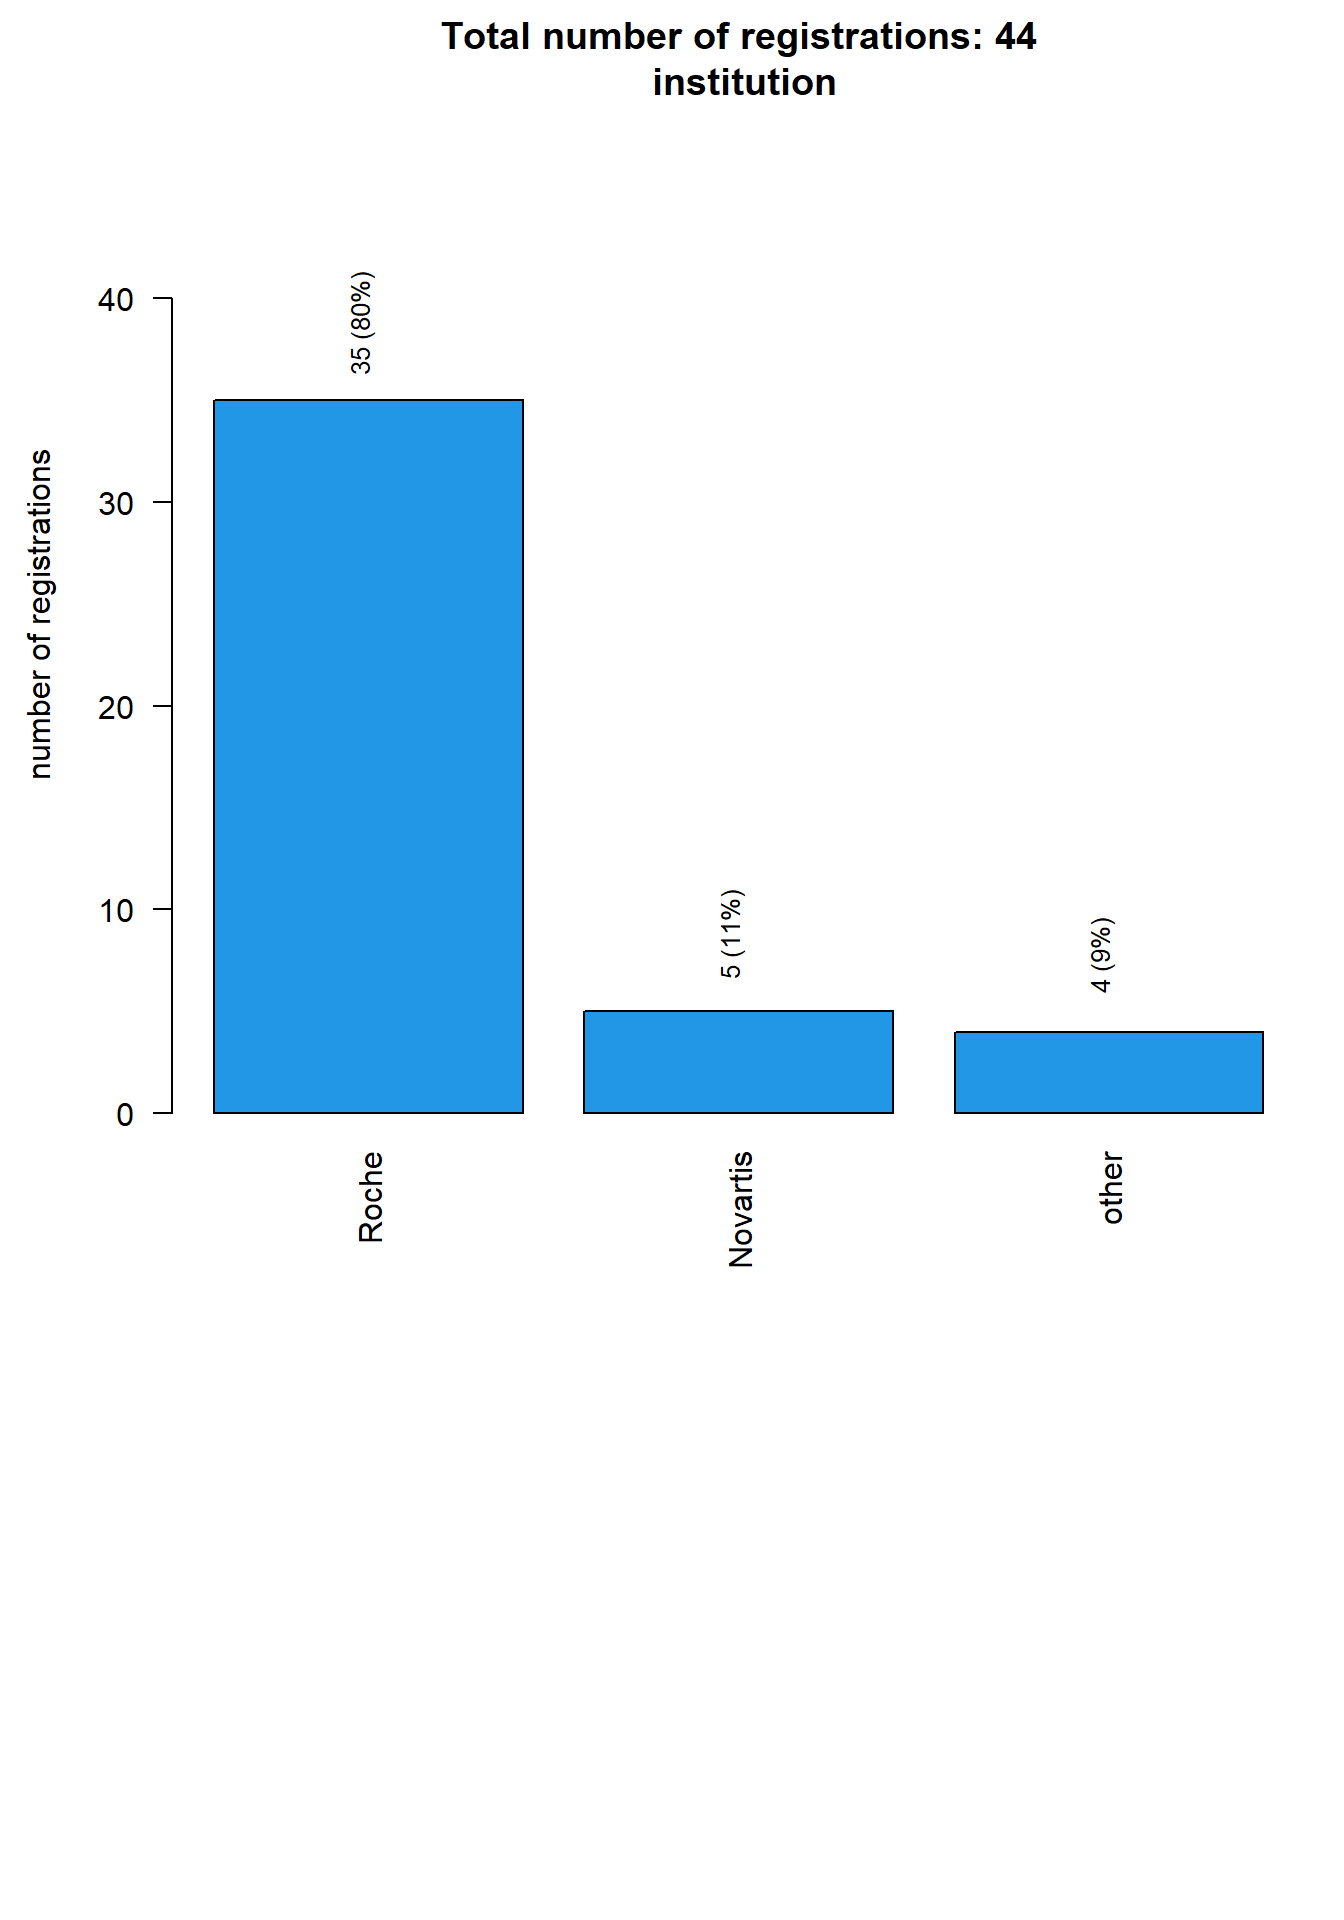
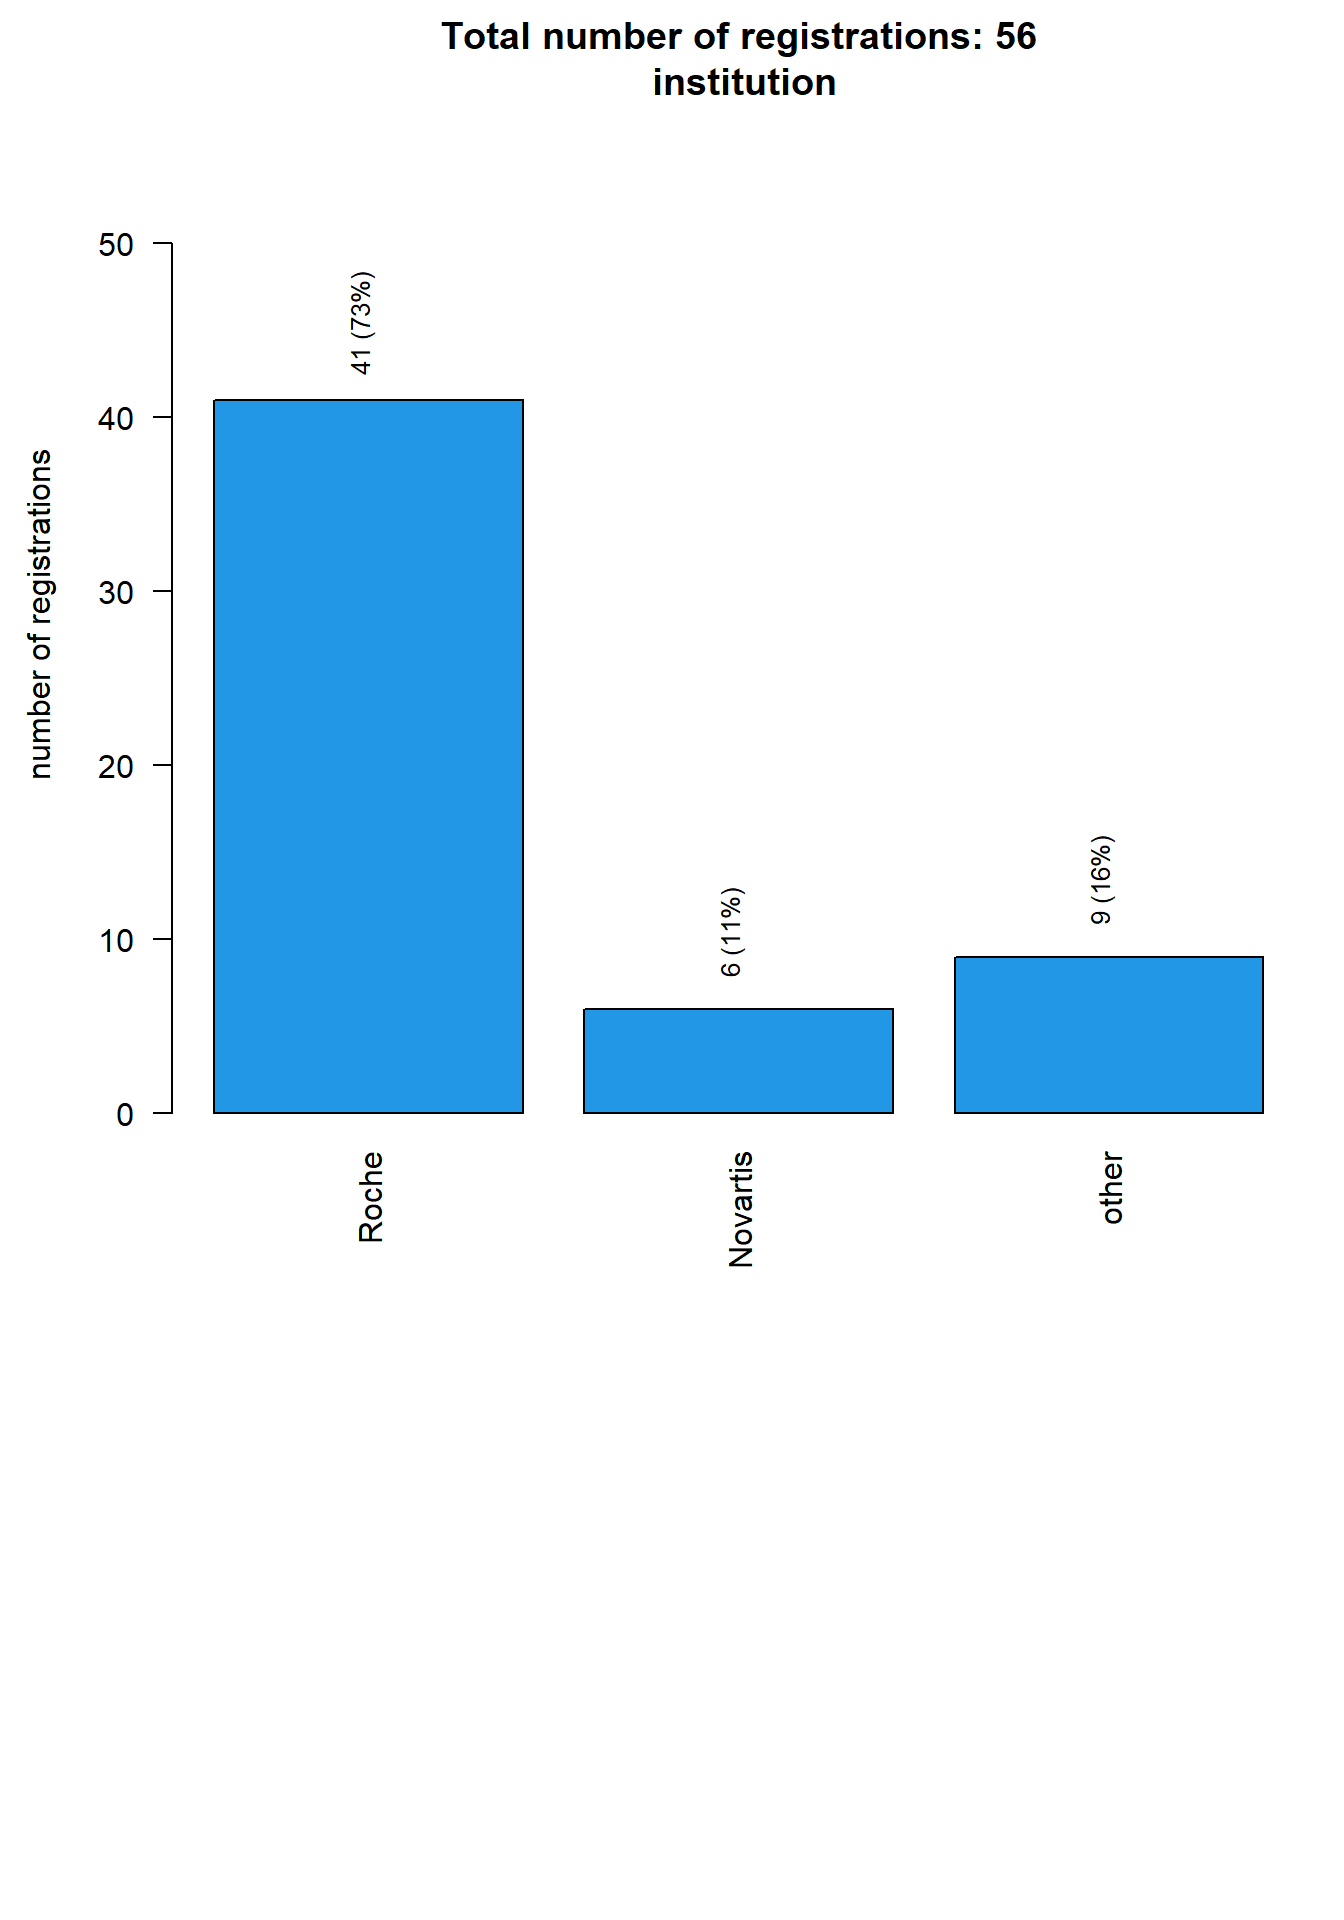
udpate

diff --git a/docs/data/2024/analysis2024.html b/docs/data/2024/analysis2024.html
@@ -201,7 +201,7 @@ ul.task-list li input[type="checkbox"] {
 
 <section id="data-status" class="level1">
 <h1>Data status</h1>
-<p>Data as of 2024-05-08 at 09:28:58.</p>
+<p>Data as of 2024-05-23 at 07:31:53.</p>
 </section>
 <section id="registrations-by-type-of-institution" class="level1">
 <h1>Registrations by type of institution</h1>
@@ -303,9 +303,9 @@ ul.task-list li input[type="checkbox"] {
 <thead>
 <tr class="header">
 <th style="text-align: left;"></th>
-<th style="text-align: center;">Novartis (N=5)</th>
-<th style="text-align: center;">Roche (N=35)</th>
-<th style="text-align: center;">Total (N=40)</th>
+<th style="text-align: center;">Novartis (N=6)</th>
+<th style="text-align: center;">Roche (N=41)</th>
+<th style="text-align: center;">Total (N=47)</th>
 </tr>
 </thead>
 <tbody>
@@ -317,15 +317,15 @@ ul.task-list li input[type="checkbox"] {
 </tr>
 <tr class="even">
 <td style="text-align: left;">&nbsp;&nbsp;&nbsp;Face-to-face (280 Euro)</td>
-<td style="text-align: center;">5 (100.0%)</td>
-<td style="text-align: center;">27 (77.1%)</td>
-<td style="text-align: center;">32 (80.0%)</td>
+<td style="text-align: center;">6 (100.0%)</td>
+<td style="text-align: center;">31 (75.6%)</td>
+<td style="text-align: center;">37 (78.7%)</td>
 </tr>
 <tr class="odd">
 <td style="text-align: left;">&nbsp;&nbsp;&nbsp;Virtual (70 Euro)</td>
 <td style="text-align: center;">0 (0.0%)</td>
-<td style="text-align: center;">8 (22.9%)</td>
-<td style="text-align: center;">8 (20.0%)</td>
+<td style="text-align: center;">10 (24.4%)</td>
+<td style="text-align: center;">10 (21.3%)</td>
 </tr>
 </tbody>
 </table>

diff --git a/docs/speaker.html b/docs/speaker.html
@@ -6,7 +6,7 @@
 
 <meta name="viewport" content="width=device-width, initial-scale=1.0, user-scalable=yes">
 
-<meta name="dcterms.date" content="2024-05-06">
+<meta name="dcterms.date" content="2024-05-23">
 
 <title>EFSPI regulatory statistics workshop - Frequently asked questions for speakers and panelists</title>
 <style>
@@ -194,7 +194,7 @@ ul.task-list li input[type="checkbox"] {
     <div>
     <div class="quarto-title-meta-heading">Published</div>
     <div class="quarto-title-meta-contents">
-      <p class="date">May 6, 2024</p>
+      <p class="date">May 23, 2024</p>
     </div>
   </div>
   
@@ -336,7 +336,9 @@ ul.task-list li input[type="checkbox"] {
 <li>Remind speakers to rather focus on principles and regulatory actions than technical (statistical) details.</li>
 <li>Remind speakers to send slides to <a href="mailto:hlyn@novonordisk.com">Helle Lynggaard</a> with cc: the session chairs.</li>
 <li>Clarify with speakers <font color="red">prior to the workshop</font> whether they are ok to post their slides and / or the recording of their session on the workshop webpage.</li>
+<li>Remind speakers to use a headphone (not speak to their computers).</li>
 </ul>
+<p>When chairing the session: - Call out those on the phone so that they can contribute to the discussion as well.</p>
 </section>
 <section id="technical-setup-and-how-we-plan-to-run-the-sessions" class="level1">
 <h1>Technical setup and how we plan to run the sessions</h1>

diff --git a/docs/data/2023/feedback2023.html b/docs/data/2023/feedback2023.html
@@ -211,7 +211,7 @@ ul.task-list li input[type="checkbox"] {
 
 <section id="data-status" class="level1">
 <h1>Data status</h1>
-<p>Data as of 2024-05-08 at 09:28:35.</p>
+<p>Data as of 2024-05-23 at 07:31:00.</p>
 </section>
 <section id="feedback-from-participants" class="level1">
 <h1>Feedback from participants</h1>
